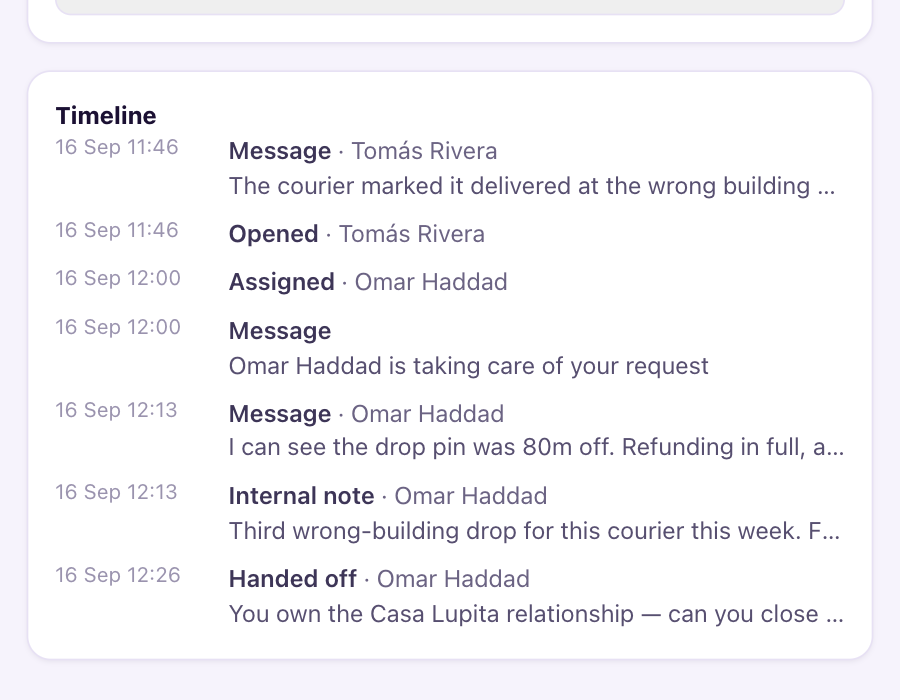
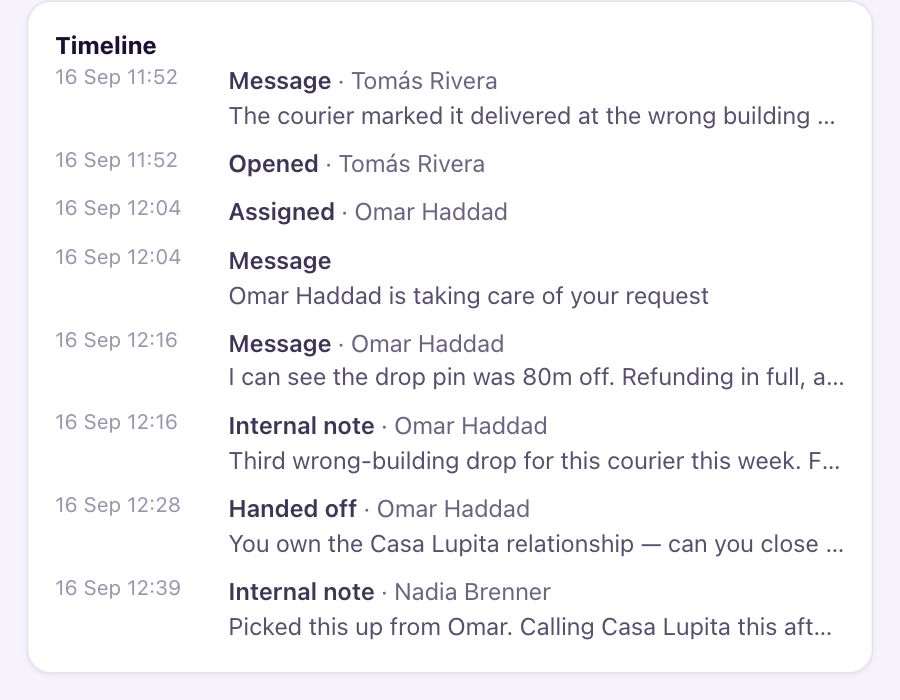
README grid: reframe the two console cells flush to the top edge
In a grid of nine identical frames, a card sliced by the top edge reads as a
careless crop rather than a chosen frame, and it is the first thing the eye
catches. Both console detail cells had one: the note shot opened on a halved
message bubble, the hand-off shot on a sliver of the card above the timeline.

Both are now shot narrow, where the console stacks to one column. That is
what makes a flush top possible at all: in the two-column layout the columns
are different heights, so every scroll position slices whichever card the
other column happens to be in the middle of.

`flush_to!` does the scrolling and then ASSERTS the featured card sits at
exactly 0 from the top, so this cannot rot back silently — it caught a real
clamp while being written (the last card on a page has nowhere left to scroll
to, and bottom padding on the console's flex body does not grow the
document's scrollable height; a spacer element does).

Neither cell lost what it was there for: the note shot still carries the amber
Internal note tab, its composer and "Notes never leave the desk", and the
hand-off shot still carries the whole trail. A second internal note, from the
agent who was handed the case, fills the band the timeline card left at the
bottom and makes the hand-off land somewhere. Notes are events, not messages,
so it changes no transcript and no other cell.

All nine remain exactly 900x700. `rake ci` unchanged: 638 runs, 2904
assertions, 0 failures, 0 errors, 0 skips.
[…]

diff --git a/screenshots/capture.rb b/screenshots/capture.rb
@@ -273,6 +273,9 @@ flagship.note!("Third wrong-building drop for this courier this week. Flagged to
 flagship.reply!("I can see the drop pin was 80m off. Refunding in full, and tonight's order is on us.",
                 by: omar)
 flagship.hand_off!(to: nadia, note: "You own the Casa Lupita relationship — can you close the loop?", by: omar)
+# A second note, from the agent who was handed the case: it lands in the
+# timeline and nowhere else, which is the difference the note shot is about.
+flagship.note!("Picked this up from Omar. Calling Casa Lupita this afternoon.", by: nadia)
 age!(flagship, opened_at: now - 95.minutes, waiting_since: now - 70.minutes)
 
 MAYA_ID = maya.id
@@ -333,6 +336,35 @@ JS
 def settle(session)
   session.execute_script(SETTLE)
   sleep 0.4
+end
+
+# Scroll until the card +selector+ lives in starts exactly at the top edge of
+# the frame, and say so if it couldn't. A cell that opens on a sliced bubble
+# or a sliver of the card above it reads as a bad crop rather than a chosen
+# frame, which is the one thing nine identical frames can't carry.
+#
+# The page is padded first because the last card on a page cannot be scrolled
+# to the top without somewhere left to scroll to; the padding is page
+# background, below the fold, and never appears in a shot.
+def flush_to!(session, selector)
+  top = session.evaluate_script(<<~JS)
+    (function () {
+      // A real element, not padding on <body>: the console's body is a flex
+      // container with height 100%, and its bottom padding does not grow the
+      // document's scrollable height there.
+      const spacer = document.createElement("div");
+      spacer.style.cssText = "height:900px;flex:0 0 900px";
+      document.body.appendChild(spacer);
+
+      const card = document.querySelector(#{selector.to_json}).closest("section, details");
+      if (!card) return null;
+      window.scrollTo(0, Math.round(card.getBoundingClientRect().top + window.scrollY));
+      return Math.round(card.getBoundingClientRect().top);
+    })();
+  JS
+
+  raise "nothing to frame for #{selector}" if top.nil?
+  raise "#{selector} sits #{top}px from the top edge, not flush" unless top.zero?
 end
 
 FileUtils.mkdir_p(OUT)
@@ -398,27 +430,26 @@ settle(session)
 shoot!(cdp, "07-case")
 
 # --- 8. The internal note composer -------------------------------------------
+#
+# Narrow, like the hand-off shot below: the console stacks below 640px, and a
+# card that spans the frame is the only way either of these two lands FLUSH on
+# the top edge. In the two-column layout the columns are different heights, so
+# every scroll position slices whichever card the other column is in the
+# middle of — which in a grid of identical frames reads as a careless crop.
 
+emulate!(cdp, *PHONE)
 session.visit "/admin/support/#{FLAGSHIP_ID}?compose=note"
 session.assert_selector "textarea[name=body]"
-session.execute_script("window.scrollTo(0, 260)")
+flush_to!(session, "textarea[name=body]")
 settle(session)
 shoot!(cdp, "08-note")
 
 # --- 9. Hand-off and assignment history --------------------------------------
-#
-# Narrow on purpose: the same console stacks below 640px, which gives the
-# holder panel and the timeline the full width this shot is about — and shows
-# that the queue an agent works from a phone is the queue.
 
-emulate!(cdp, *PHONE)
 session.visit "/admin/support/#{FLAGSHIP_ID}"
 session.assert_selector "details summary"
-session.execute_script(<<~JS)
-  document.querySelectorAll("details").forEach((el) => (el.open = true));
-  const timeline = document.querySelector("aside details");
-  if (timeline) window.scrollTo(0, timeline.getBoundingClientRect().top + window.scrollY - 10);
-JS
+session.execute_script('document.querySelectorAll("details").forEach((el) => (el.open = true));')
+flush_to!(session, "aside details")
 settle(session)
 shoot!(cdp, "09-handoff")
 
